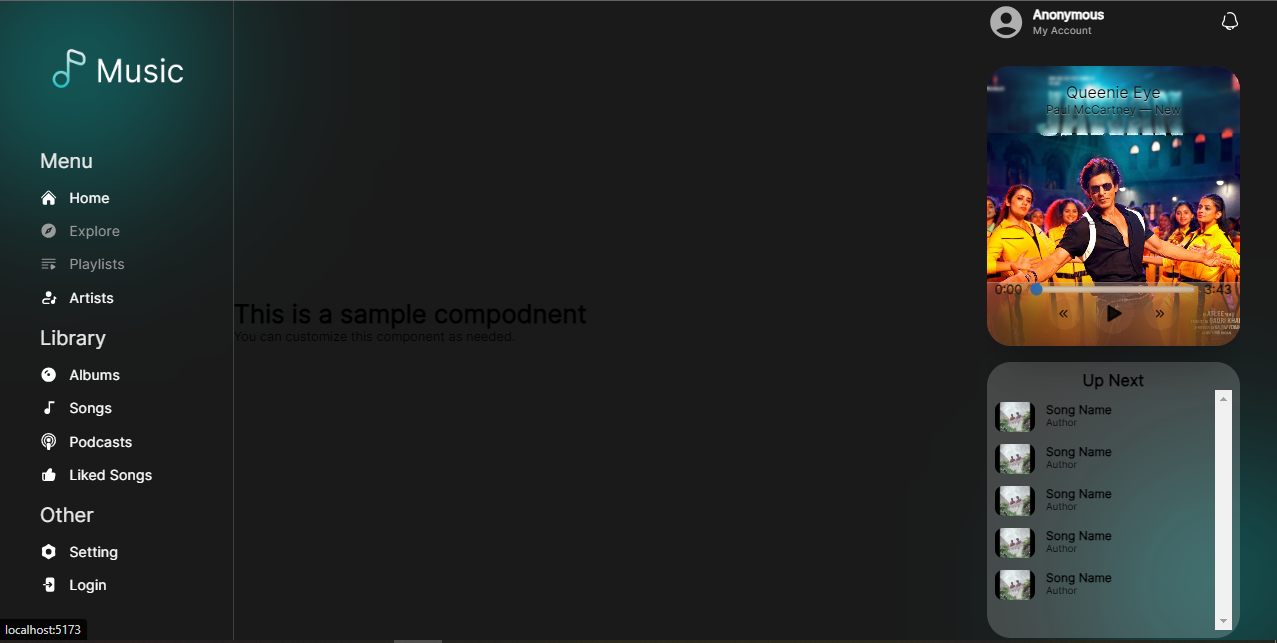
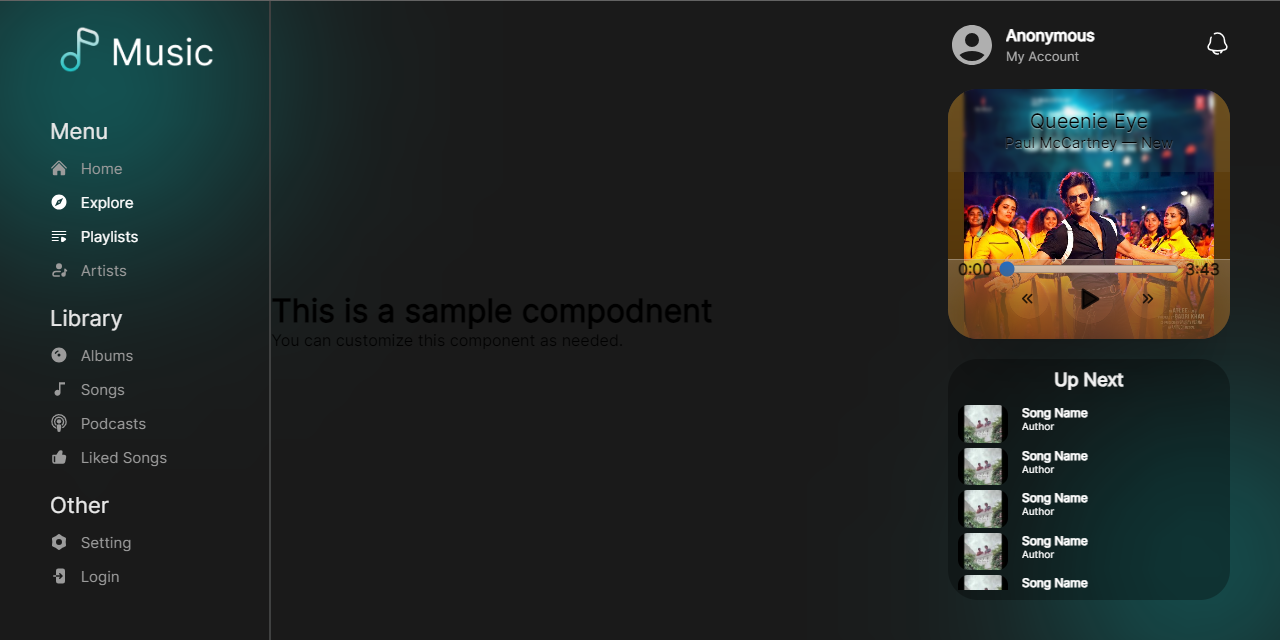
right panel done!

diff --git a/src/components/right_sidebar.vue b/src/components/right_sidebar.vue
@@ -51,10 +51,10 @@
       </div>
     </div>
     <div class="queue_list">
-      <p style="text-align: center; font-size: 20px; font-weight: 800;">Up Next</p>
+      <p style="text-align: center; font-size: 18px; padding-bottom:10px; font-weight: 800;">Up Next</p>
       <div class="main_lst">
       <div class="queue_card">
-        <img class="min_thumb" src="https://inv.in.projectsegfau.lt/vi/5Z9oa3gMX5s/1.jpg" width="50px">
+        <img class="min_thumb" src="https://inv.in.projectsegfau.lt/vi/5Z9oa3gMX5s/1.jpg" >
         <div class="related_text">
           <p class="r_name">Song Name</p>
           <p class="r_author">Author</p>
@@ -62,7 +62,7 @@
 
       </div>
       <div class="queue_card">
-        <img class="min_thumb" src="https://inv.in.projectsegfau.lt/vi/5Z9oa3gMX5s/1.jpg" width="50px">
+        <img class="min_thumb" src="https://inv.in.projectsegfau.lt/vi/5Z9oa3gMX5s/1.jpg" >
         <div class="related_text">
           <p class="r_name">Song Name</p>
           <p class="r_author">Author</p>
@@ -70,7 +70,7 @@
 
       </div>
       <div class="queue_card">
-        <img class="min_thumb" src="https://inv.in.projectsegfau.lt/vi/5Z9oa3gMX5s/1.jpg" width="50px">
+        <img class="min_thumb" src="https://inv.in.projectsegfau.lt/vi/5Z9oa3gMX5s/1.jpg" >
         <div class="related_text">
           <p class="r_name">Song Name</p>
           <p class="r_author">Author</p>
@@ -78,7 +78,7 @@
 
       </div>
       <div class="queue_card">
-        <img class="min_thumb" src="https://inv.in.projectsegfau.lt/vi/5Z9oa3gMX5s/1.jpg" width="50px">
+        <img class="min_thumb" src="https://inv.in.projectsegfau.lt/vi/5Z9oa3gMX5s/1.jpg" >
         <div class="related_text">
           <p class="r_name">Song Name</p>
           <p class="r_author">Author</p>
@@ -86,7 +86,23 @@
 
       </div>
       <div class="queue_card">
-        <img class="min_thumb" src="https://inv.in.projectsegfau.lt/vi/5Z9oa3gMX5s/1.jpg" width="50px">
+        <img class="min_thumb" src="https://inv.in.projectsegfau.lt/vi/5Z9oa3gMX5s/1.jpg" >
+        <div class="related_text">
+          <p class="r_name">Song Name</p>
+          <p class="r_author">Author</p>
+        </div>
+
+      </div>
+      <div class="queue_card">
+        <img class="min_thumb" src="https://inv.in.projectsegfau.lt/vi/5Z9oa3gMX5s/1.jpg" >
+        <div class="related_text">
+          <p class="r_name">Song Name</p>
+          <p class="r_author">Author</p>
+        </div>
+
+      </div>
+      <div class="queue_card">
+        <img class="min_thumb" src="https://inv.in.projectsegfau.lt/vi/5Z9oa3gMX5s/1.jpg" >
         <div class="related_text">
           <p class="r_name">Song Name</p>
           <p class="r_author">Author</p>
@@ -223,52 +239,62 @@ onUnmounted(() => {
 
 .queue_card {
   overflow: hidden;
-  padding-top: 15px;
+  padding-top: 5px;
   width: 100%;
   display: flex;
   flex-direction: row;
   justify-content: space-between;
 }
+.queue_card:hover{
+  background-color: rgba(0, 0, 0, 0.3);
+}
+.queue_card_selected{
+  background-color: rgba(0, 0, 0, 0.5);
+}
 .main_lst{
   overflow-y: scroll;
   overflow-x:hidden;
-  height: 300px;
+  height: 190px;
 }
 .related_text {
   flex-grow: 0.9;
 }
-
+::-webkit-scrollbar{
+  width: 5px;
+}
 .r_name {
-  font-size: 15px;
-  font-weight: 800;
+  font-size: 12px;
+  font-weight: 600;
 }
 
 .r_author {
-  font-size: 12px;
+  font-size: 10px;
 }
 
 .queue_list {
 
   margin-top: 20px;
-  background-color: rgba(255, 255, 255, 0.192);
+  background-color: rgba(0, 0, 0, 0.3);
   width: 100%;
   border-radius: 30px;
   padding: 10px;
+  color:white;
   
 }
 
 .min_thumb {
   border-radius: 10px;
+  width: 50px;
 }
 
 .player {
   box-shadow: 0 2px 4px -4px rgba(0, 0, 0, 0.4), 0 50px 45px -20px rgba(0, 0, 0, 0.2);
   border-radius: 30px;
-  height: 350px;
+  height: 250px;
   overflow: hidden;
   position: relative;
   width: 100%;
-  margin-top: 30px;
+  margin-top: 20px;
 }
 
 .player__meta {

diff --git a/src/App.vue b/src/App.vue
@@ -8,7 +8,7 @@ import right_sidebar from './components/right_sidebar.vue'
   <div id="main-area">
     <div class="item-1">
       <div class="sec-1-item-1">
-      <router-link to="/">  <img src="@/assets/logo.png" alt="" style="width: 95%; padding-bottom: 50px" /></router-link>
+      <router-link to="/">  <img src="@/assets/logo.png" alt="" style="width: 95%;" /></router-link>
       </div>
       <div class="sec-1-item-2">
         <nav>
@@ -78,7 +78,7 @@ import right_sidebar from './components/right_sidebar.vue'
   width: 300px;
   height: 100vh;
   padding: 0px 50px;
-  border-right: 1px solid #404141;
+  border-right: 2px solid #404141;
   justify-content: center;
 }
 
@@ -93,6 +93,7 @@ import right_sidebar from './components/right_sidebar.vue'
   justify-content: center;
   align-items: center;
   padding: 0px 50px 0px 20px;
+  padding-bottom: 20px;
 }
 
 .sec-1-item-1 {
@@ -104,31 +105,32 @@ import right_sidebar from './components/right_sidebar.vue'
  
 }
 .sec-1-item-2 {
-  padding-top: 20px;
   text-align: left !important;
+  margin-top:40px;
+  margin-bottom: 30px;
 }
 .m-header {
   color: #e8e8e8;
-  font-size: 25px;
+  font-size: 22px;
 }
 .menu-link {
-  color: #9b9b9b;
+  color: white;
   text-decoration: none;
   
 }
 li{
   display: flex;
   justify-content: flex-start;
-  padding-top: 20px;
-  font-size: 18px;
+  padding-top: 15px;
+  font-size: 15px;
 }
 .active-menu{
-  color: white;
+  color: #9b9b9b;
   font-weight: 500;
   text-decoration: none;
 }
 li:hover{
-  color: white;
+  color: #9b9b9d;
   font-weight: 500;
 }
 

diff --git a/src/main.js b/src/main.js
@@ -2,8 +2,6 @@ import './assets/main.css'
 import { createApp } from 'vue'
 import App from './App.vue'
 import router from './router'
-
 const app = createApp(App)
-
 app.use(router)
 app.mount('#app')

diff --git a/readMe.md b/readMe.md
@@ -20,7 +20,7 @@ Here're some of the Ztube music's best features:
 *   No Trackers
 *   Support Gmail Login
 *   Support Background Play (iOS & Android \[Soon\])
-*   Choose Geo Reason
+*   Choose Geo Region
 *   Access Restricted Content
 
 <h2>🛠 Installation Steps:</h2>
